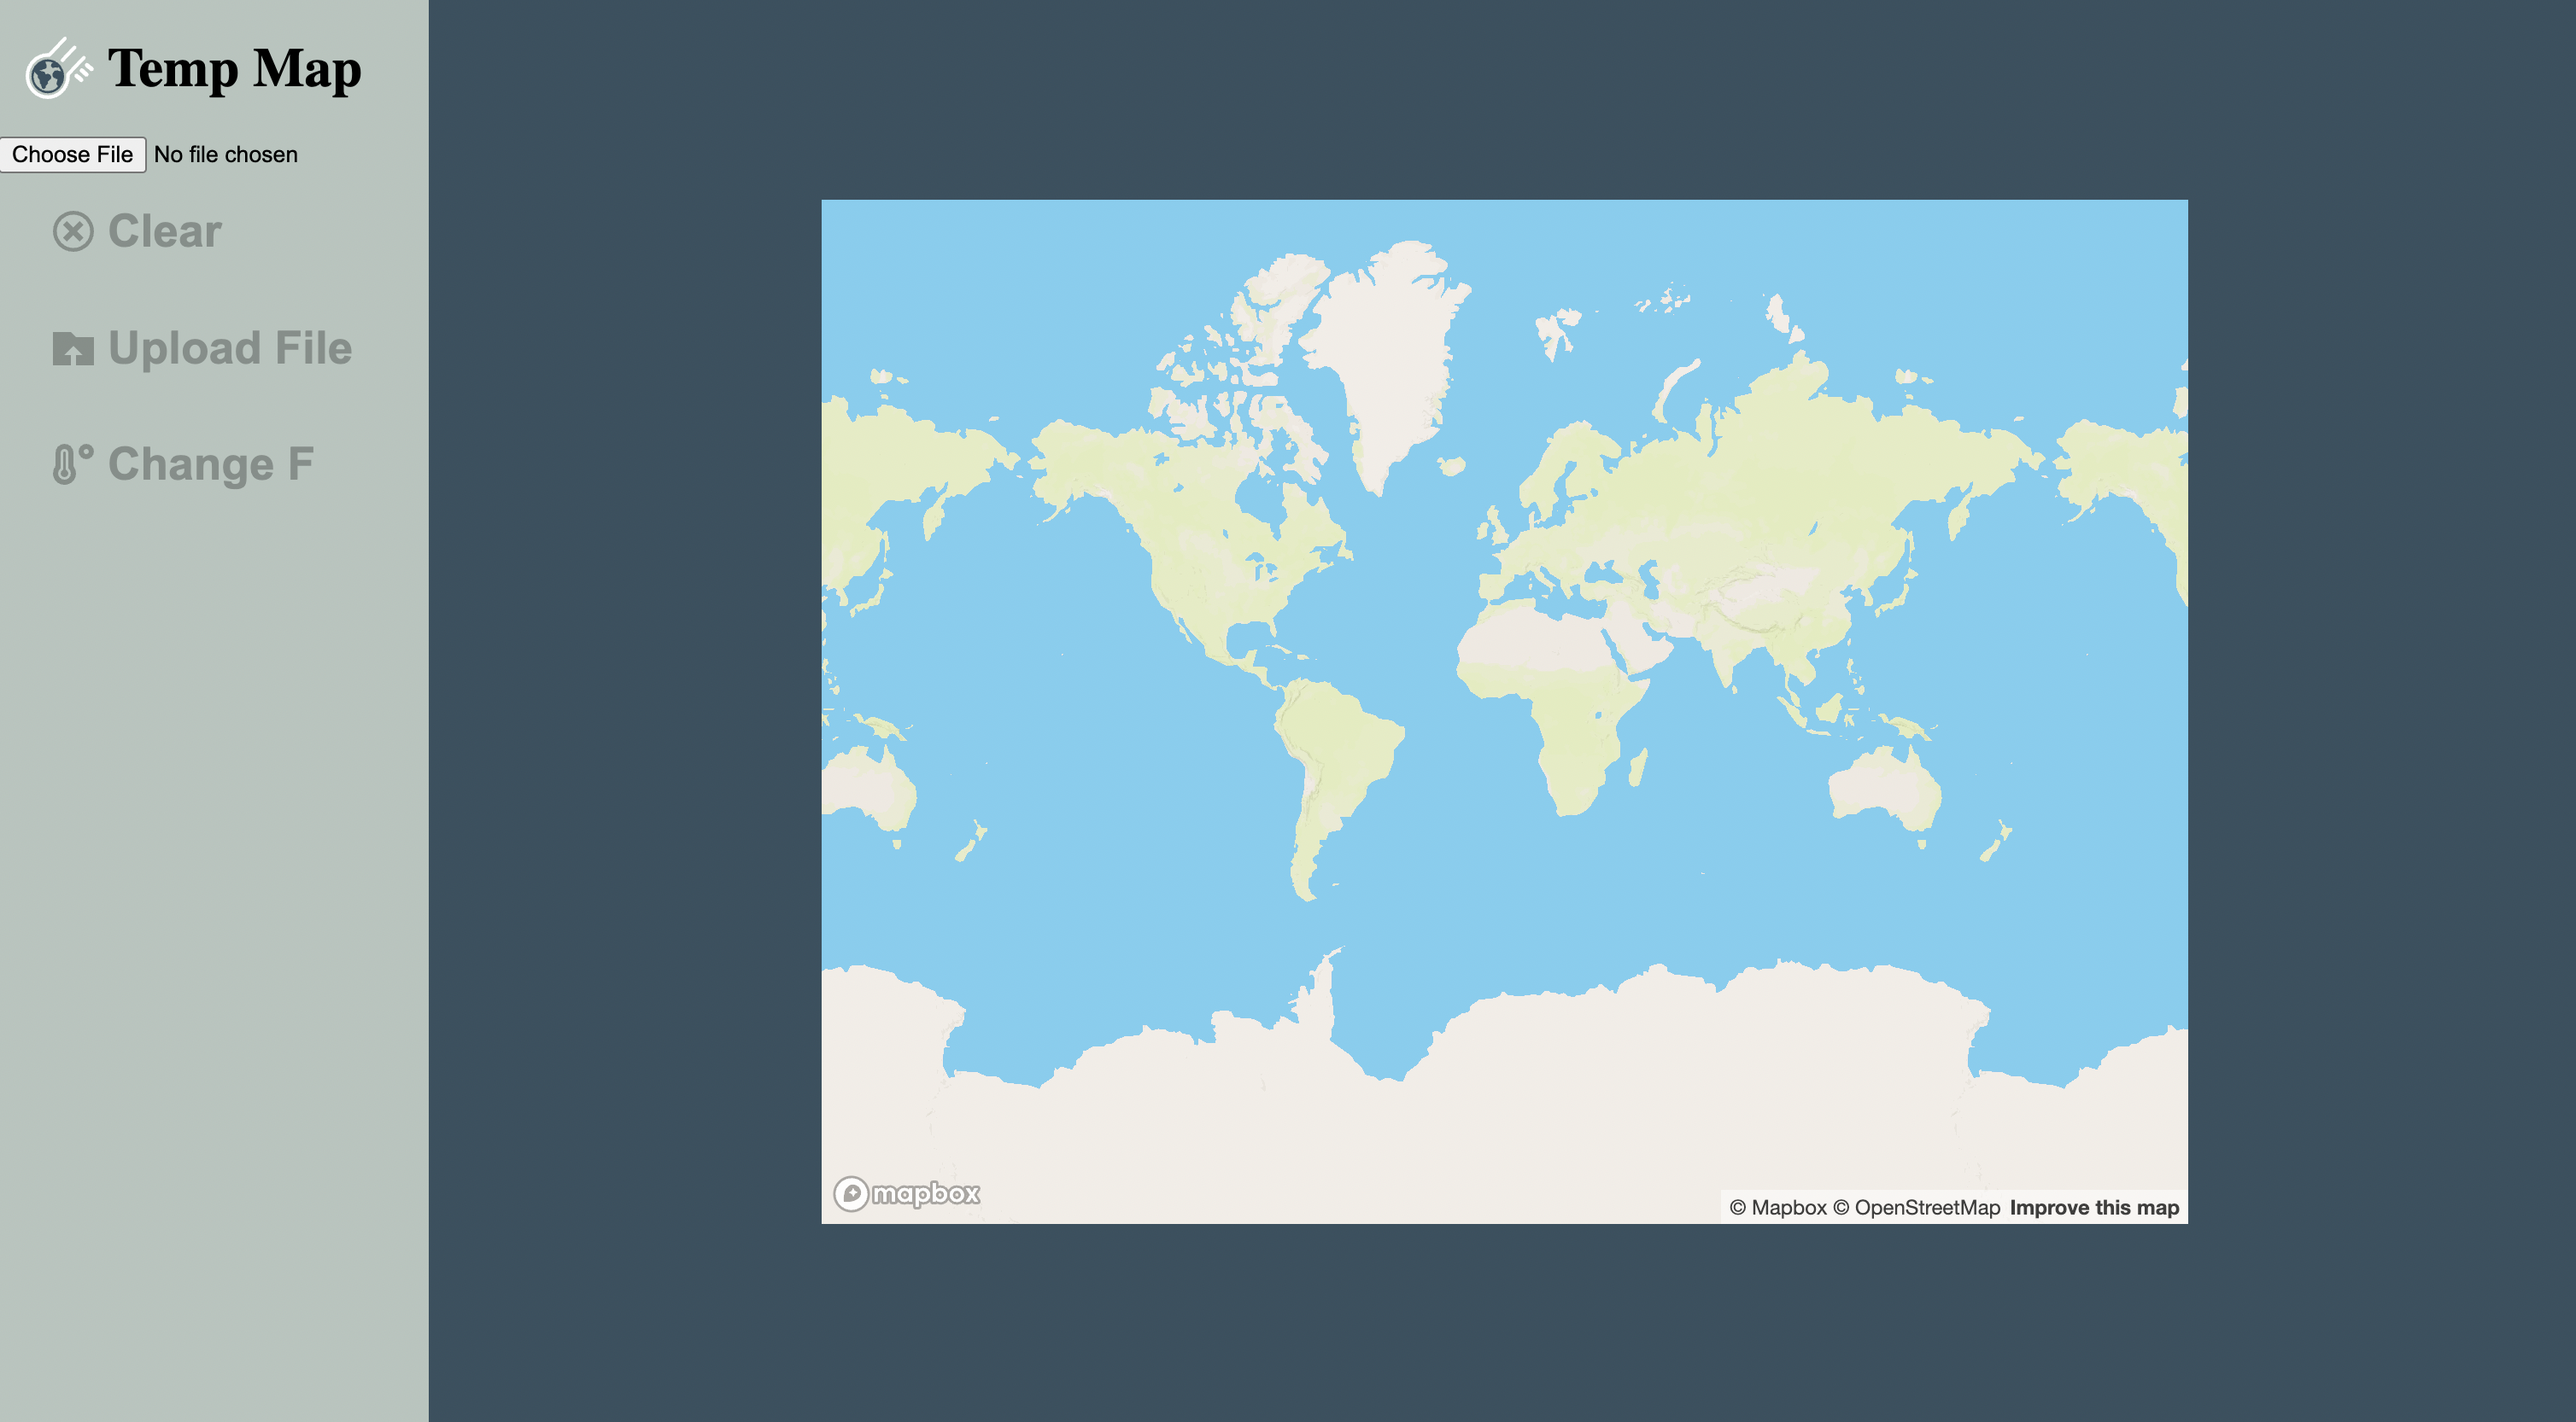
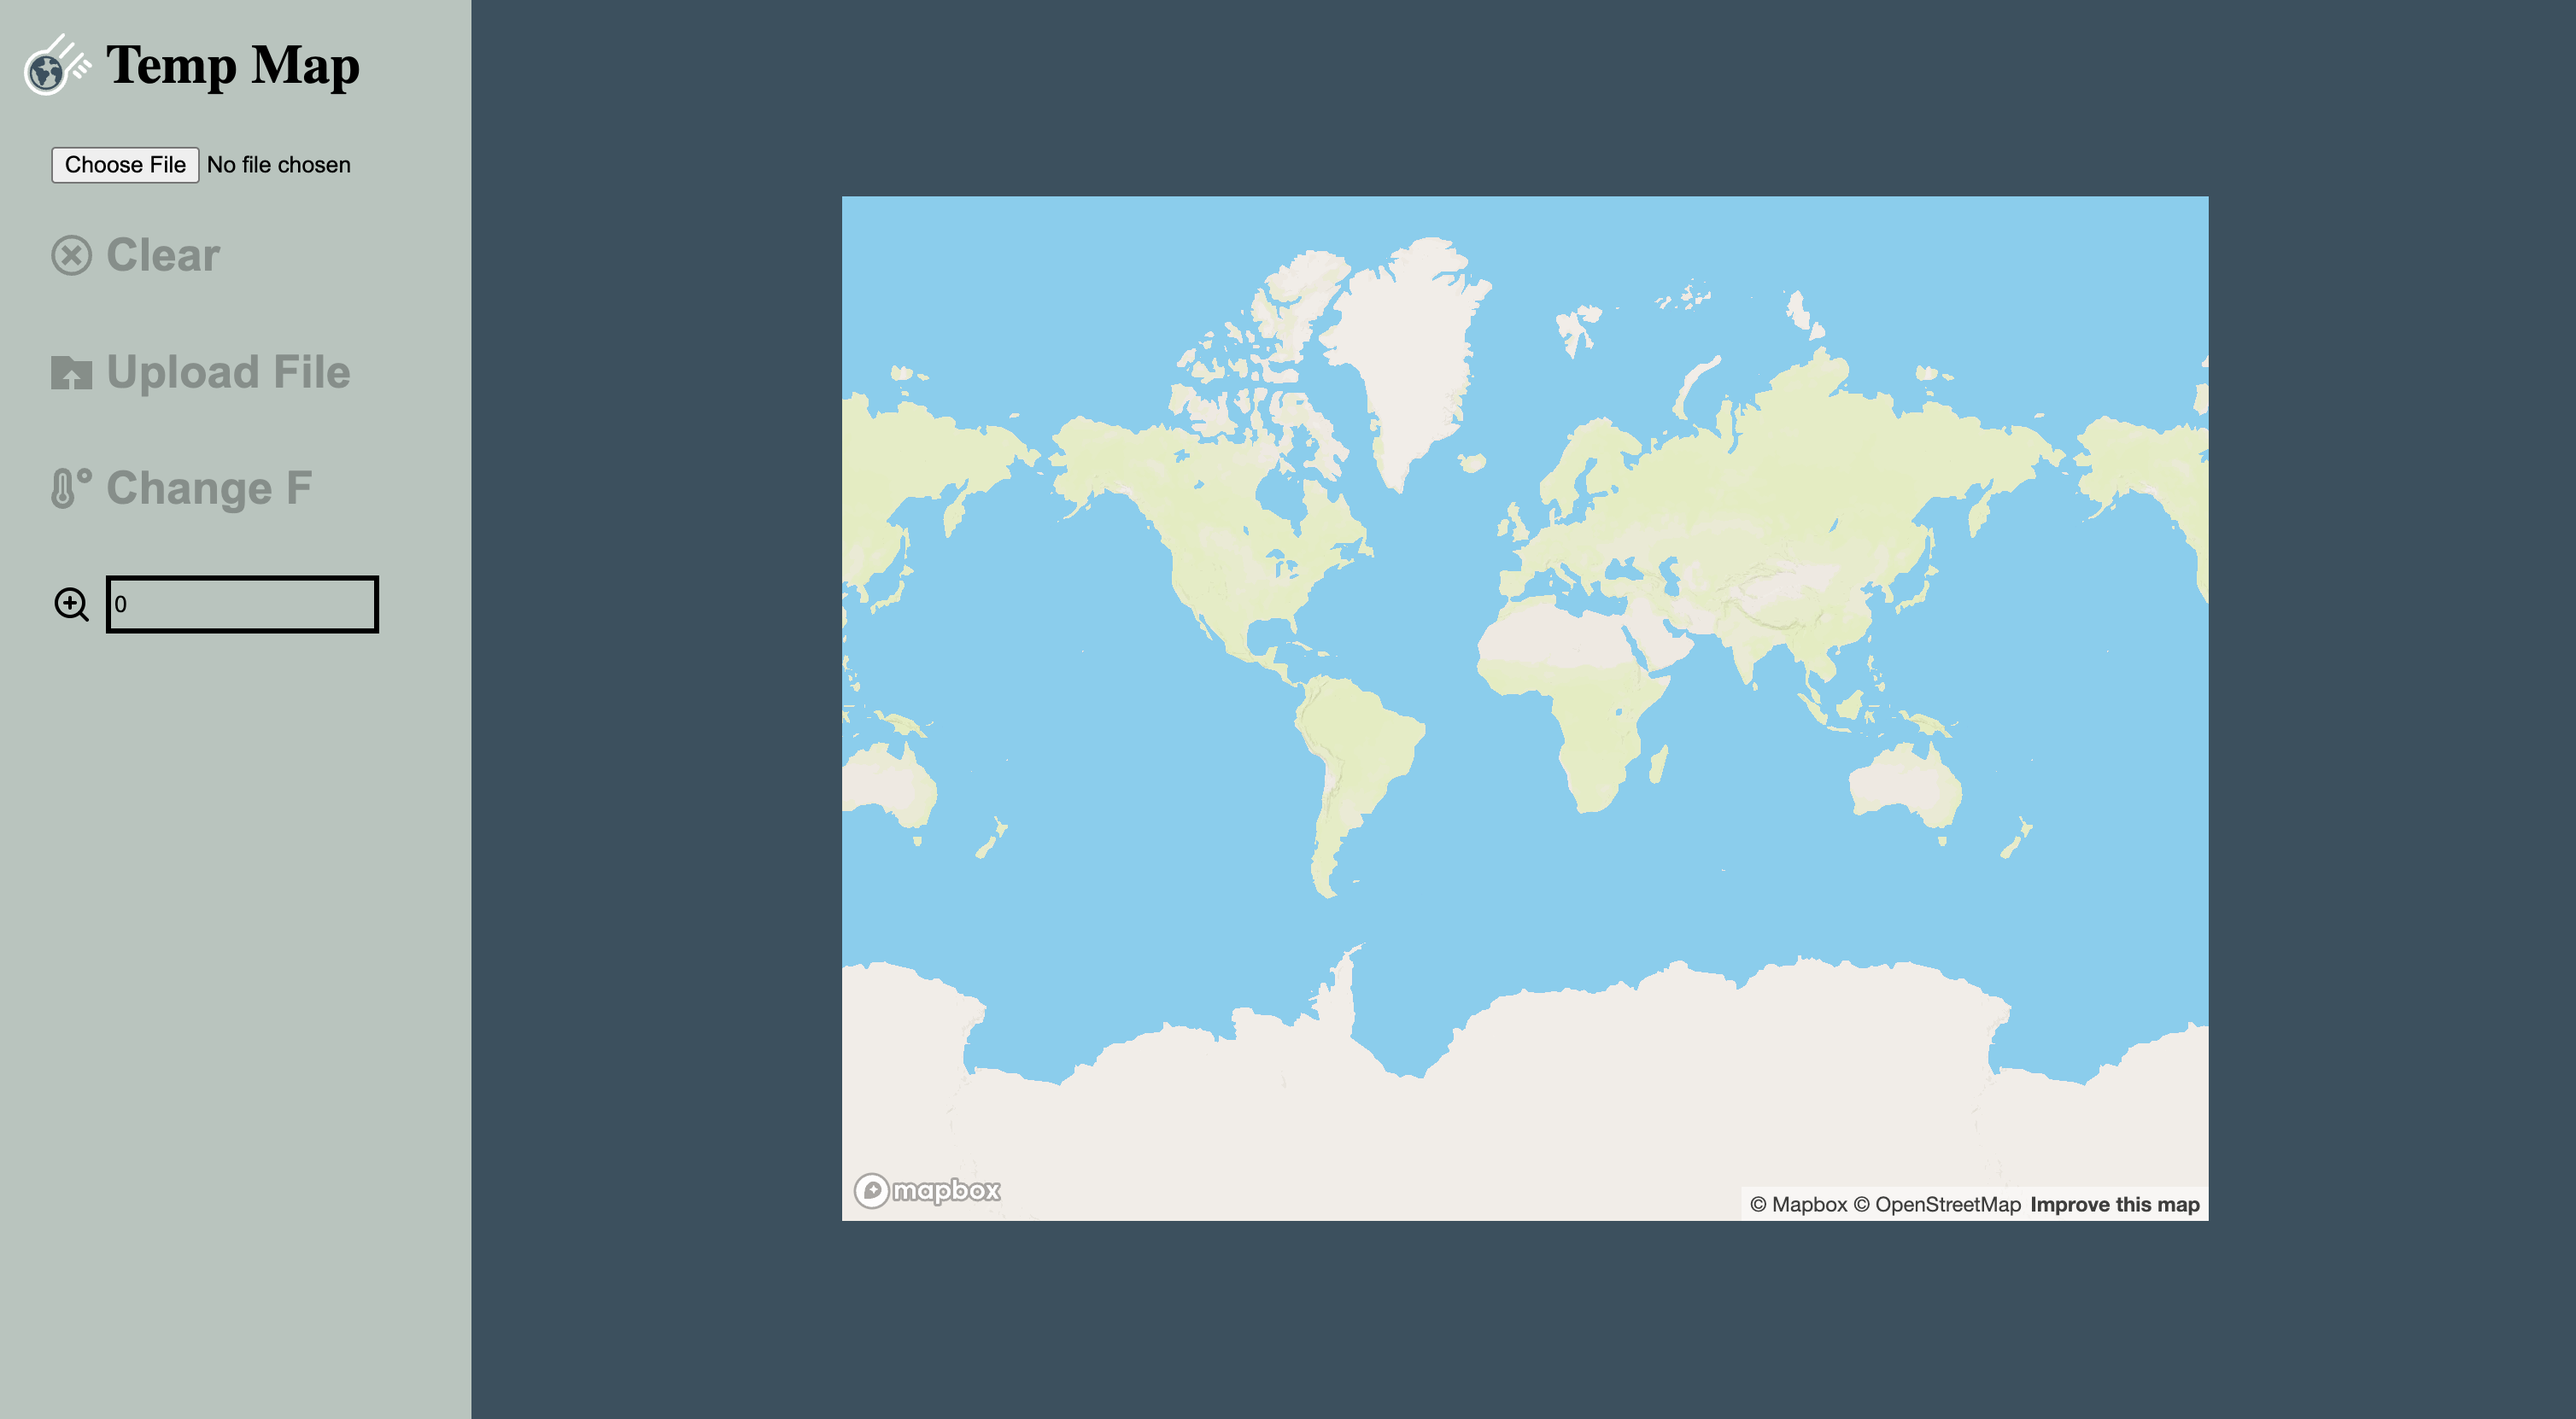
updated readme and screenshot

diff --git a/README.md b/README.md
@@ -46,11 +46,38 @@ this projects supports docker through docker compose, see package.json for added
 2. visit http://localhost:8000
 
 - npm scripts for docker compose
+
   - `dc:up` -- start the container (builds the container if it is not present)
   - `dc:stop` -- stop the container
   - `dc:up:build` -- rebuild and start the container
   - `dc:sh` -- start the container with a shell attached to execute commands in the container
   - `dc:ps` -- list containers
+
+#### Uplaod JSON File Example
+
+```
+[
+  {
+    "city": "Fort Collins",
+    "lat": "40.585258",
+    "lon": "-105.084419",
+    "temp": "84.2"
+  },
+  {
+    "city": "Danver",
+    "lat": "39.742043",
+    "lon": "-104.991531",
+    "temp": "86.0"
+  },
+  {
+    "city": "Loveland",
+    "lat": "40.398857",
+    "lon": "-105.052643",
+    "temp": "89.6"
+  }
+]
+
+```
 
 ## Usage
 
